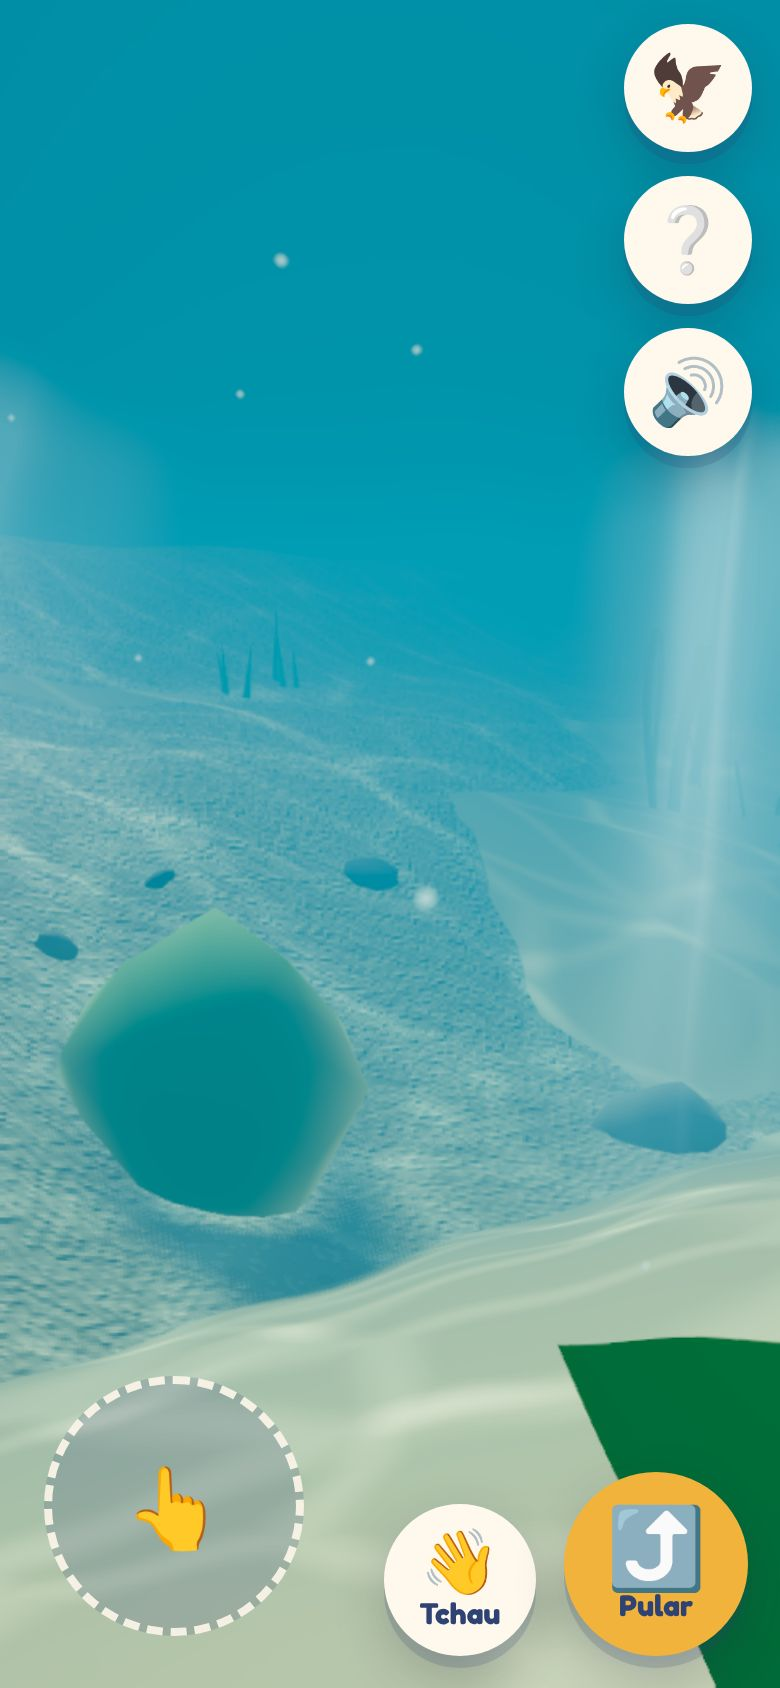
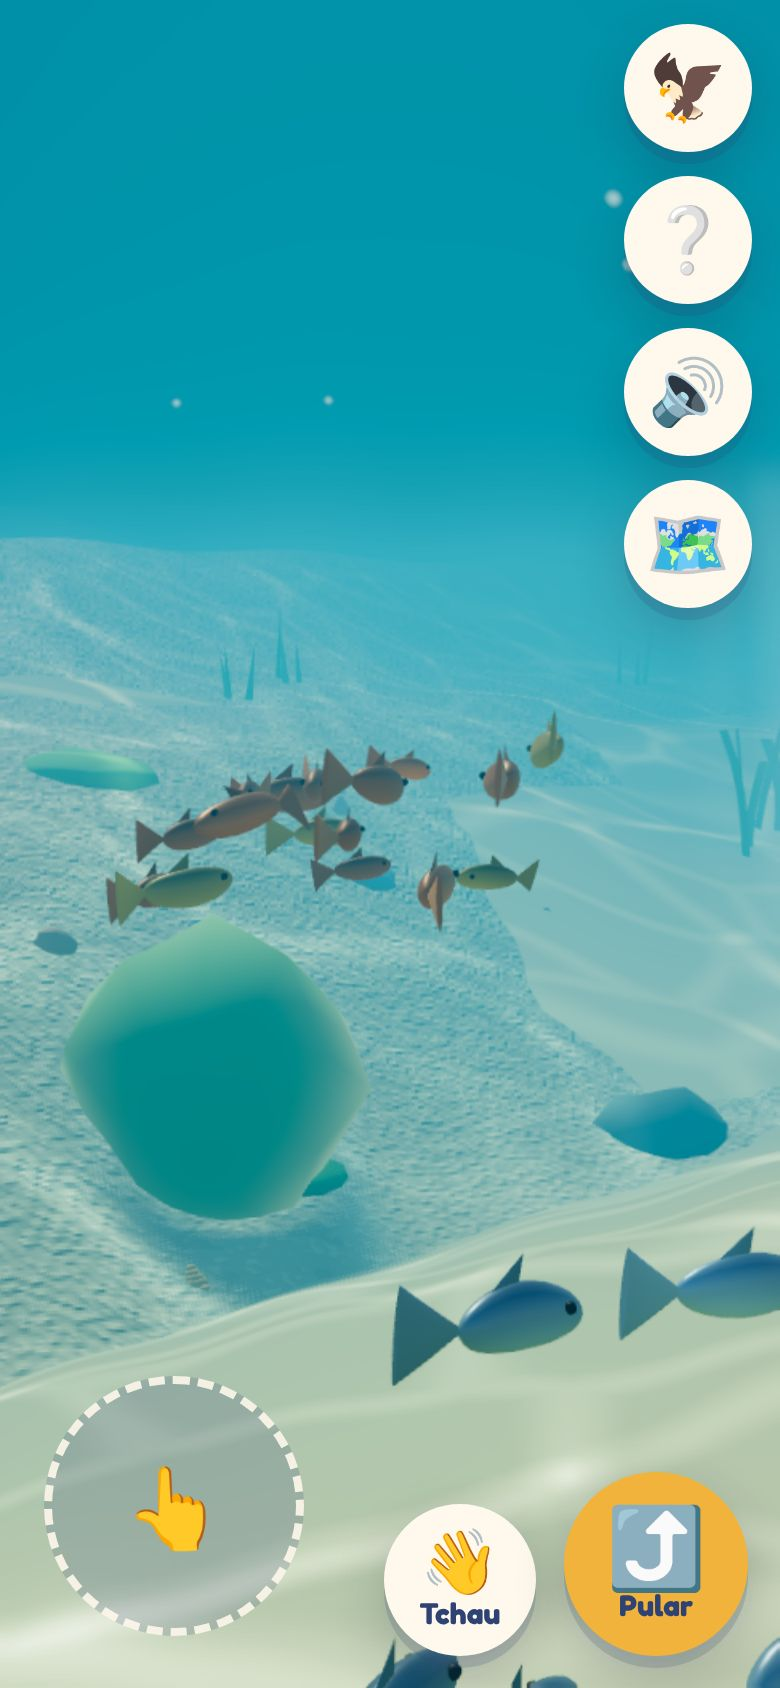
Mundo 3D: capturas antes/depois (praça, rio, embaixo d'água, PC e celular) e ESTADO §0 com a verificação real
Claude-Session: https://claude.ai/code/session_01XFnar5EqvbkeuXqeMQuF5Q

diff --git a/docs/ESTADO-ATUAL.md b/docs/ESTADO-ATUAL.md
@@ -112,9 +112,19 @@ fonte em `docs/propostas/06-fonema-unificada/mundo-3d-v2` (copiada no build para
 - **Qualidade:** no "baixo" (celular fraco e navegador de teste) não há grama de perto, acabamento nem cáusticas — o acabamento nem entra
   no programa (medido: mesmo custo de antes, ~2,3 s/quadro nos dois no Chromium sem placa de vídeo). Peso novo: 55 KB de código (~20 KB
   comprimido), nenhum arquivo de mídia.
-- **Verificado (cópia separada, porta 4650):** typecheck, lint, 424 testes, build, E2E `--mundo3d` verde (33 ✓); `--sem-jornada`: ver o
-  relatório. Capturas antes/depois olhadas (praça, rio, embaixo d'água). **Não testado:** aparelho real (FPS do médio/alto num celular de
-  verdade), o som num alto-falante.
+- **Peixinhos no mergulho (pedido do dono, conferido em captura):** ao descer, dois cardumes aparecem nadando na frente da câmera e ficam
+  por perto ~10 s (laranja/amarelo, azul, prateado com rabo amarelo, rosa; com um pouco de luz própria para a cor não sumir na água);
+  com a criança embaixo d'água o cardume mais perto ainda vem nadar em volta dela (ajuste da frente do boneco no mesmo arquivo). Fundo:
+  conchinhas/caramujos de rio, almofadas de musgo, pedras de várias cores, plantas, aguapés. **Decisão do projeto:** é rio de água doce,
+  então nada de estrela-do-mar nem coral. O barranco ficou mais curto: a água visível acaba ~7,4 m do meio, perto de onde a colisão para
+  de ver água (o nado da beirinha vai até ~6,3 m do meio; o E2E do nado continua verde).
+- **Verificado (cópia separada, porta 4650):** typecheck, lint, 424 testes (com tempo maior: com a máquina carregada, 2 testes do motor
+  passaram de 5 s), build, E2E `--mundo3d` verde (35 ✓, último build). Som: depois de uma tecla o áudio fica "running" e a trilha agenda
+  compassos; `medirTrilha` re-renderizada: pico -15,5 dB, volume médio -31,7 dB. Custo no "baixo" medido igual ao de antes (~2,3 s/quadro
+  nos dois no Chromium sem placa). `--sem-jornada` **não terminou**: o navegador fechou no trecho 7 (D031, antes do passeio), com a máquina
+  em carga ~38 em 4 núcleos (vários E2E de outras frentes); não é do mundo e não foi repetido. Capturas antes/depois olhadas:
+  `app/docs/capturas/mundo3d-arte-{antes,depois}-*.jpg` (praça, rio, embaixo d'água; 1850×980 alto e 390×844 médio). **Não testado:**
+  aparelho real (FPS do médio/alto), o som num alto-falante (ninguém ouviu, só medido).
 
 **Passeio 3D: andar, nadar e mergulhar (fila do dono nº 21 e 24; 18/11; NÃO publicado ainda):** queixa do dono: "o personagem não
 anda, ele fica pulando, e ele não nada, ele some no mar". Causa: os modelos (Tripo) são uma malha inteira sem esqueleto e a
